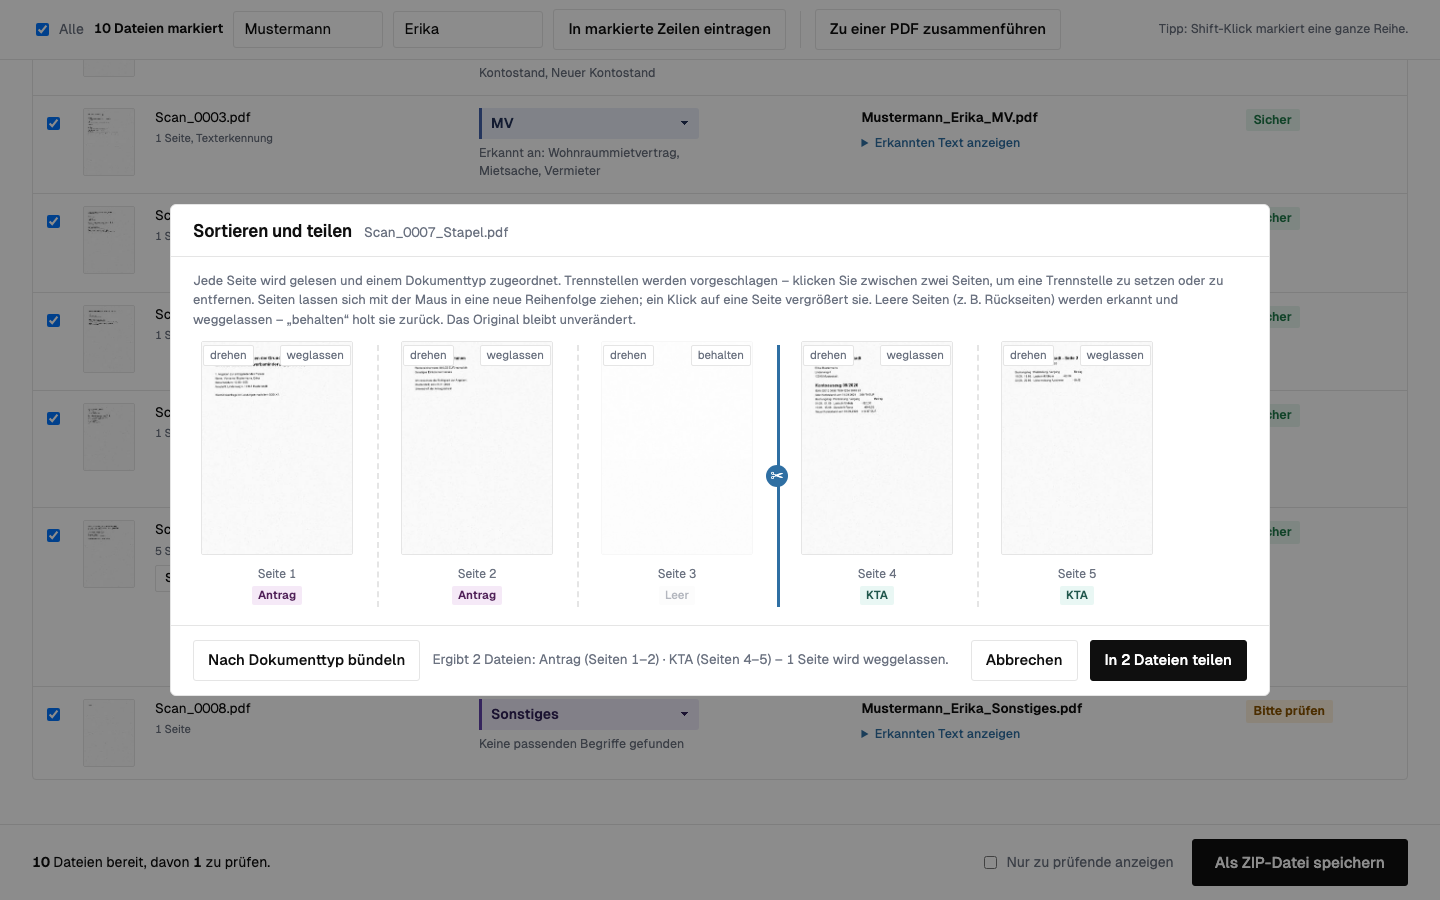
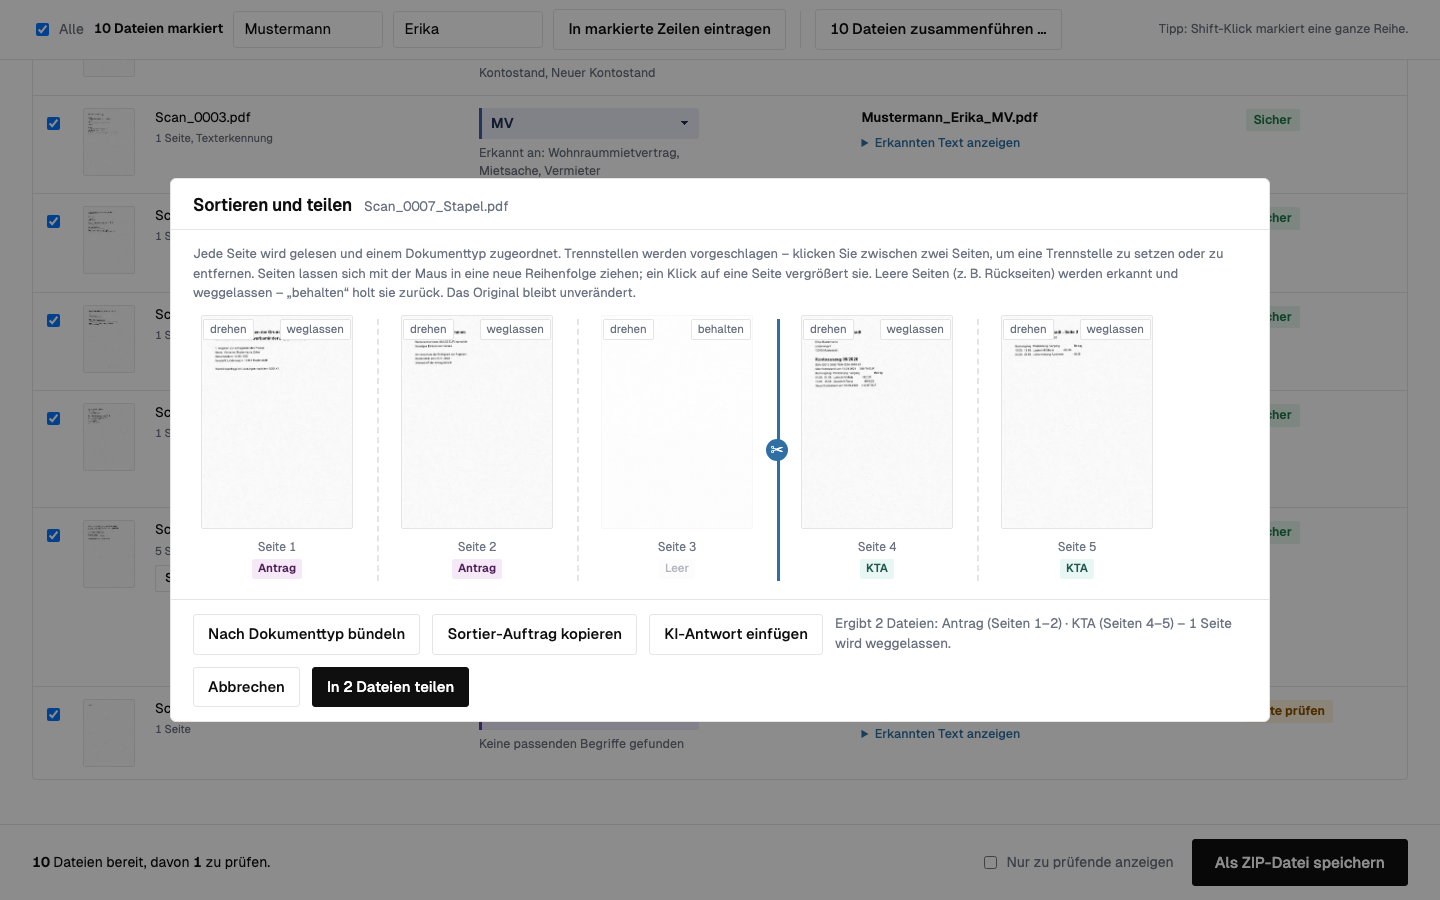
Zusammenführen-Dialog und Sortieren per KI-Assistent (v1.6.0)
Zusammenführen nutzerfreundlich: Der Knopf zählt mit („3 Dateien
zusammenführen …") und öffnet statt confirm() ein Fenster in der
Bediensprache des Teilen-Dialogs – Karten in Verbindungs-Reihenfolge
(per Maus umsortierbar), „weglassen" je Karte (unter 2 gesperrt),
Namensfeld mit Vorschlag nach dem Dateinamen-Muster (abweichende
Eingabe wird als fester Name übernommen, item.fixedName) und
Mischtyp-Hinweis. Erst „Zusammenführen" erstellt die PDF.

Sortieren mit dem KI-Assistenten, offline-konform über die
Zwischenablage: „Sortier-Auftrag kopieren" legt einen festen Auftrag
(regeln.js, sortierauftrag) samt nummerierter Seitentexte ab; die
Antwort im Format „Reihenfolge: 2, 1, 3" übernimmt „KI-Antwort
einfügen" in die Seitenvorschau – prüfbar vor dem Teilen. Damit sind
z. B. durcheinander gescannte Kontoauszüge automatisch sortierbar.

209 Prüfungen, alle grün.

diff --git a/Unterlagen-Sortierer/Unterlagen-Sortierer.html b/Unterlagen-Sortierer/Unterlagen-Sortierer.html
@@ -439,12 +439,37 @@ dialog.split::backdrop { background: rgba(0, 0, 0, .45); }
   <div class="dlgfoot">
     <button class="btn" id="bundle" disabled
       title="Alle Seiten gleichen Dokumenttyps zusammenschieben und je Typ eine Trennstelle setzen – vor dem Teilen prüfbar und änderbar">Nach Dokumenttyp bündeln</button>
+    <button class="btn" id="sortcopy" disabled
+      title="Sortier-Auftrag samt Seitentexten in die Zwischenablage kopieren – zum Einfügen in den DSGVO-konformen KI-Assistenten">Sortier-Auftrag kopieren</button>
+    <button class="btn" id="sortpaste" disabled
+      title="Die Antwort des KI-Assistenten (Reihenfolge: 2, 1, 3 …) einfügen – die Seiten werden entsprechend umsortiert, prüfbar vor dem Teilen">KI-Antwort einfügen</button>
     <div class="dlginfo" id="splitinfo"></div>
     <button class="btn" id="splitcancel">Abbrechen</button>
     <button class="btn primary" id="splitok" disabled>Teilen</button>
   </div>
   <!-- Liegt IM Dialog, damit die Vergrößerung über dem modalen Dialog (Top-Layer) erscheint -->
   <div class="zoom hidden" id="zoom"><img id="zoomimg" alt="Vergrößerte Seitenansicht"></div>
+</dialog>
+
+<dialog class="split" id="mergedlg" aria-label="Dateien zusammenführen">
+  <div class="dlghead"><h2>Zu einer PDF zusammenführen</h2></div>
+  <div class="dlgbody">
+    <p class="hint">Die markierten Dateien werden in dieser Reihenfolge zu EINER PDF-Datei verbunden.
+      Karten lassen sich mit der Maus umsortieren, „weglassen“ nimmt eine Datei heraus.
+      Die Originale bleiben unverändert und werden nur abgewählt.</p>
+    <div class="pages" id="mergecards"></div>
+    <div class="field" style="margin-top:14px; align-items:center">
+      <span class="label" style="margin:0 4px 0 0">Neuer Dateiname</span>
+      <input type="text" id="mergename" spellcheck="false" aria-label="Dateiname der neuen PDF" style="flex:1 1 280px">
+      <span class="hint" style="margin:0">.pdf</span>
+    </div>
+    <p class="why warn hidden" id="mergewarn" style="max-width:none">Die Dateien haben verschiedene Dokumenttypen – bitte den Typ der neuen Zeile danach prüfen.</p>
+  </div>
+  <div class="dlgfoot">
+    <div class="dlginfo" id="mergeinfo"></div>
+    <button class="btn" id="mergecancel">Abbrechen</button>
+    <button class="btn primary" id="mergeok">Zusammenführen</button>
+  </div>
 </dialog>
 
 <div class="pv hidden" id="preview">
@@ -800,6 +825,8 @@ function findDate(text) {
 function clean(v) { return String(v || "").trim().replace(/[<>:"/\\|?*\x00-\x1F]/g, "").replace(/\s+/g, "-"); }
 function buildName(item) {
   const ext = "." + item.name.split(".").pop().toLowerCase();
+  // Im Zusammenführen-Dialog von Hand vergebener Name: gilt fest, Muster greift nicht
+  if (item.fixedName) return (String(item.fixedName).replace(/[<>:"/\\|?*\x00-\x1F]/g, "").trim().slice(0, 150) || "Dokument") + ext;
   const orig = item.name.replace(/\.[^.]+$/, "");
   let s = setting("muster")
     .replace(/\{Nachname\}/gi, clean(item.nachname) || "Unbekannt")
@@ -1237,6 +1264,25 @@ function bundleByType() {
   renderSplitPages();
   updateSplitInfo();
 }
+/* Sortieren mit dem KI-Assistenten (offline-konform über die Zwischenablage):
+   "Sortier-Auftrag kopieren" legt Auftrag + nummerierte Seitentexte in die Zwischenablage;
+   die Antwort im festen Format "Reihenfolge: 2, 1, 3" übernimmt "KI-Antwort einfügen". */
+function copySortAuftrag(btn) {
+  const teile = split.order.map((o, i) => `=== Seite ${i + 1} ===\n${(split.pages[o].text || "").trim() || "(leere Seite)"}`);
+  copyText(R.sortierauftrag + "\n\n" + teile.join("\n\n"), btn);
+}
+function pasteSortAntwort() {
+  const raw = prompt("Antwort des KI-Assistenten hier einfügen (Format: Reihenfolge: 2, 1, 3):") || "";
+  const zahlen = raw.match(/\d+/g);
+  if (!zahlen) { setStatus("In der eingefügten Antwort wurde keine Reihenfolge gefunden.", undefined, true); return; }
+  const n = split.order.length, neu = [];
+  for (const z of zahlen.map(Number)) if (z >= 1 && z <= n && !neu.includes(z - 1)) neu.push(z - 1);
+  for (let i = 0; i < n; i++) if (!neu.includes(i)) neu.push(i);   // nicht genannte Seiten hinten anhängen
+  split.order = neu.map((disp) => split.order[disp]);              // Zahlen = Nummern aus dem kopierten Auftrag
+  split.cuts.clear(); split.auto = true;
+  renderSplitPages(); proposeCuts(); updateSplitInfo();
+  setStatus("Die Seiten wurden nach der eingefügten Reihenfolge sortiert – bitte das Ergebnis prüfen.");
+}
 /* Seite per Drag & Drop an eine neue Position ziehen: Trennvorschlag wird neu berechnet */
 function movePage(from, to) {
   const [x] = split.order.splice(from, 1);
@@ -1323,6 +1369,7 @@ function updateSplitInfo() {
     : segs.length === 1 && dropped ? "Ohne weggelassene Seiten speichern" : "Teilen";
   $("#splitok").disabled = split.running || !segs.length || (segs.length < 2 && !dropped && !orderChanged);
   $("#bundle").disabled = split.running;
+  $("#sortcopy").disabled = split.running; $("#sortpaste").disabled = split.running;
 }
 async function doSplit() {
   const segs = splitSegments();
@@ -1371,10 +1418,64 @@ async function doSplit() {
 }
 function closeSplit() { split.abort = true; try { $("#splitdlg").close(); } catch {} }
 
-async function mergeSelected() {
+/* ---------- Zusammenführen-Dialog: erst sehen und ändern, dann machen ---------- */
+const merge = { items: [], order: [], drop: new Set(), drag: undefined, touched: false };
+function mergeKept() { return merge.order.filter((o) => !merge.drop.has(o)).map((o) => merge.items[o]); }
+function mergeTypes(kept) { return new Set(kept.filter((k) => k.manual.type || k.typeSure).map((k) => k.type)); }
+// Namensvorschlag nach dem Dateinamen-Muster (Typ = gemeinsamer sicherer Typ, sonst der der ersten Datei)
+function mergeVorschlag(kept) {
+  if (!kept.length) return "";
+  const first = kept[0], types = mergeTypes(kept);
+  const typ = types.size === 1 ? [...types][0] : (first.type || UNKNOWN);
+  return buildName({ name: "x.pdf", nachname: first.nachname, vorname: first.vorname, type: typ, datum: first.datum }).replace(/\.pdf$/i, "");
+}
+function openMerge() {
   const sel = state.items.filter((i) => i.selected && i.status === "done");
   if (sel.length < 2 || state.busy) return;
-  if (!confirm(`${sel.length} markierte Dateien werden in der Reihenfolge der Liste zu einer PDF-Datei zusammengeführt. Die Originale bleiben unverändert. Fortfahren?`)) return;
+  merge.items = sel; merge.order = sel.map((_, i) => i); merge.drop = new Set(); merge.drag = undefined; merge.touched = false;
+  renderMergeCards(); updateMergeInfo();
+  $("#mergedlg").showModal();
+}
+function renderMergeCards() {
+  const wrap = $("#mergecards"); wrap.innerHTML = "";
+  merge.order.forEach((orig, disp) => {
+    const it = merge.items[orig];
+    const card = document.createElement("div"); card.className = "page"; card.draggable = true;
+    card.title = "Mit der Maus in eine neue Reihenfolge ziehen";
+    card.classList.toggle("drop", merge.drop.has(orig));
+    card.ondragstart = (e) => { merge.drag = disp; e.dataTransfer.effectAllowed = "move"; };
+    card.ondragover = (e) => { e.preventDefault(); e.dataTransfer.dropEffect = "move"; };
+    card.ondrop = (e) => {
+      e.preventDefault();
+      if (merge.drag !== undefined && merge.drag !== disp) { const [x] = merge.order.splice(merge.drag, 1); merge.order.splice(disp, 0, x); renderMergeCards(); updateMergeInfo(); }
+      merge.drag = undefined;
+    };
+    const img = document.createElement("img"); img.src = it.thumb || ""; img.alt = "";
+    const no = document.createElement("span"); no.className = "pno"; no.textContent = (it.originalName || it.name) + (it.pages > 1 ? ` – ${it.pages} Seiten` : "");
+    const ty = document.createElement("span"); ty.className = "ptype"; ty.textContent = it.type || "?"; ty.style.setProperty("--h", hue(it.type || "?"));
+    const skip = document.createElement("button"); skip.type = "button"; skip.className = "skippage"; skip.textContent = merge.drop.has(orig) ? "dazunehmen" : "weglassen";
+    skip.title = "Diese Datei beim Zusammenführen weglassen";
+    skip.onclick = () => { if (merge.drop.has(orig)) merge.drop.delete(orig); else merge.drop.add(orig); renderMergeCards(); updateMergeInfo(); };
+    card.append(img, no, ty, skip);
+    wrap.appendChild(card);
+  });
+}
+function updateMergeInfo() {
+  const kept = mergeKept();
+  const seiten = kept.reduce((s, k) => s + (k.pages || 1), 0);
+  $("#mergeinfo").textContent = kept.length < 2
+    ? "Bitte mindestens zwei Dateien dazunehmen."
+    : `Ergibt EINE PDF-Datei mit ${seiten} Seiten aus ${kept.length} Dateien.`;
+  $("#mergewarn").classList.toggle("hidden", mergeTypes(kept).size <= 1);
+  if (!merge.touched) $("#mergename").value = mergeVorschlag(kept);
+  $("#mergeok").disabled = kept.length < 2 || state.busy;
+}
+async function doMerge() {
+  const sel = mergeKept();
+  if (sel.length < 2 || state.busy) return;
+  const vorschlag = mergeVorschlag(sel);
+  const eingabe = $("#mergename").value.trim();
+  $("#mergedlg").close();
   state.busy = true; updateActions(); setStatus("Die Dateien werden zusammengeführt …");
   try {
     const out = await PDFLib.PDFDocument.create();
@@ -1403,13 +1504,14 @@ async function mergeSelected() {
     }
     const data = await out.save();
     const ni = newItem({
-      name: uniqueListName(names[0].replace(/\.[^.]+$/, "") + "_gesamt.pdf"), data, size: data.length,
+      name: uniqueListName((eingabe || vorschlag || names[0].replace(/\.[^.]+$/, "") + "_gesamt") + ".pdf"), data, size: data.length,
       pages: pagesN, thumb: sel[0].thumb, thumbRot: 0, text,
       pageTexts: allRead ? pageTexts : [], pagesRead: allRead ? pageTexts.length : 0,
       pageRot: Array(pagesN).fill(0),                 // Drehungen stecken schon in der Datei
       ocr: anyOcr,
       partInfo: "Zusammengeführt aus " + names.map((n) => `„${n}“`).join(", "),
     });
+    if (eingabe && eingabe !== vorschlag) ni.fixedName = eingabe;   // von Hand vergebener Name gilt fest
     analyse(ni);
     // Hatten die Quellen verschiedene erkannte Typen, wird der Typ NICHT stillschweigend
     // von einer Datei übernommen, sondern zur Prüfung gelb markiert.
@@ -1669,6 +1771,7 @@ function updateActions() {
   $("#apply").disabled = state.busy || sel.length === 0;
   $("#vApply").disabled = state.busy || !$("#vNach").value.trim() || !sel.length;
   $("#merge").disabled = state.busy || sel.length < 2 || !window.PDFLib;
+  $("#merge").textContent = sel.length >= 2 ? `${sel.length} Dateien zusammenführen …` : "Zusammenführen …";
   $("#tbinfo").textContent = `${sel.length} ${sel.length === 1 ? "Datei" : "Dateien"} markiert`;
   const wählbar = state.items.filter((i) => i.status === "done");
   for (const cb of [$("#all"), $("#tball")]) {
@@ -1961,9 +2064,14 @@ function init() {
   $("#apply").onclick = apply;
   $("#onlycheck").onchange = () => state.items.forEach(applyRowFilter);
   initDrop();
-  $("#merge").onclick = mergeSelected;
+  $("#merge").onclick = openMerge;
+  $("#mergeok").onclick = doMerge;
+  $("#mergecancel").onclick = () => $("#mergedlg").close();
+  $("#mergename").oninput = () => { merge.touched = true; };
   $("#splitok").onclick = doSplit;
   $("#bundle").onclick = bundleByType;
+  if (R.sortierauftrag) { $("#sortcopy").onclick = () => copySortAuftrag($("#sortcopy")); $("#sortpaste").onclick = pasteSortAntwort; }
+  else { $("#sortcopy").classList.add("hidden"); $("#sortpaste").classList.add("hidden"); }
   $("#splitcancel").onclick = closeSplit;
   $("#splitdlg").addEventListener("cancel", (e) => {
     // Esc schließt zuerst nur die Vergrößerung, erst der zweite Esc den Dialog

diff --git a/Unterlagen-Sortierer/programm/regeln.js b/Unterlagen-Sortierer/programm/regeln.js
@@ -32,6 +32,11 @@ window.REGELN = {
   // (zum Einfügen in den DSGVO-konformen KI-Assistenten). Leer lassen = Knopf ausblenden.
   pruefauftrag: "Bitte prüfe das folgende Verwaltungsdokument: Um welchen Dokumenttyp handelt es sich? Fehlen Angaben oder Unterschriften, gibt es unplausible oder widersprüchliche Angaben? Welche Rückfragen sollten gestellt werden? Antworte kurz in Stichpunkten.",
 
+  // Auftrag für "Sortier-Auftrag kopieren" im Teilen-Dialog: Der KI-Assistent bekommt die
+  // Seitentexte und antwortet in einem festen Format, das "KI-Antwort einfügen" versteht.
+  // Leer lassen = beide Knöpfe ausblenden.
+  sortierauftrag: "Du bekommst die erkannten Texte der Seiten eines eingescannten Dokuments, nummeriert in der aktuellen Reihenfolge (Seite 1 bis N). Bringe die Seiten in die fachlich richtige Reihenfolge – z. B. Kontoauszüge nach Auszugsnummer und Seitenzahl, Formulare nach aufgedruckter Seitennummer, Briefe nach Datum. Antworte mit GENAU EINER Zeile im Format\nReihenfolge: 2, 1, 3\nund sonst nichts – keine Erklärungen.",
+
   dokumenttypen: [
     // ---------- Anträge (Jobcenter / Sozialamt) ----------
     { name: "HA", info: "Hauptantrag (Jobcenter)",

diff --git a/Unterlagen-Sortierer/programm/version.js b/Unterlagen-Sortierer/programm/version.js
@@ -1,2 +1,2 @@
 // Wird von tools/release_bauen.sh aus der Datei VERSION erzeugt – nicht von Hand ändern.
-window.APP_VERSION = "1.5.1";
+window.APP_VERSION = "1.6.0";

diff --git a/tests/test_teilen.py b/tests/test_teilen.py
@@ -92,10 +92,21 @@ async def main():
         await pg.wait_for_function("state.items.length === 2 && !state.busy", timeout=240000)
         P.check("Werkzeugleiste zeigt Markierung", await pg.is_visible("#merge") and not await pg.evaluate("$('#merge').disabled")
                 and "2 Dateien markiert" in await pg.inner_text("#tbinfo"))
-        await pg.click("#merge")  # confirm() wird automatisch bestätigt
+        P.check("Knopf zählt mit", await pg.inner_text("#merge") == "2 Dateien zusammenführen …")
+        await pg.click("#merge")   # öffnet den Zusammenführen-Dialog
+        P.check("Dialog zeigt die Karten", await pg.evaluate("document.querySelector('#mergedlg').open && document.querySelectorAll('#mergecards .page').length === 2"))
+        P.check("Mischtyp-Hinweis im Dialog", not await pg.evaluate("document.querySelector('#mergewarn').classList.contains('hidden')"))
+        P.check("Namensvorschlag nach Muster", (await pg.evaluate("document.querySelector('#mergename').value")).startswith("Mustermann_Erika_"))
+        P.check("Ergibt-Zeile stimmt", "2 Seiten aus 2 Dateien" in await pg.inner_text("#mergeinfo"))
+        # Eine Karte weglassen → gesperrt; wieder dazunehmen → frei
+        await pg.click("#mergecards .page .skippage >> nth=0")
+        P.check("Unter 2 Dateien gesperrt", await pg.evaluate("$('#mergeok').disabled"))
+        await pg.click("#mergecards .page .skippage >> nth=0")
+        P.check("Wieder frei", not await pg.evaluate("$('#mergeok').disabled"))
+        await pg.click("#mergeok")
         await pg.wait_for_function("state.items.length === 3 && !state.busy", timeout=240000)
         m = await pg.evaluate("state.items.map(i => ({ n: i.name, pg: i.pages, d: !!i.derived, sel: i.selected, mi: i.mergedInto || '', sure: !!i.typeSure }))")
-        P.check("Neue Gesamt-PDF", m[2]['d'] and m[2]['pg'] == 2 and m[2]['n'].endswith("_gesamt.pdf"), m)
+        P.check("Neue Gesamt-PDF", m[2]['d'] and m[2]['pg'] == 2 and m[2]['n'].endswith(".pdf"), m)
         P.check("Originale abgewählt und gekennzeichnet", not m[0]['sel'] and not m[1]['sel'] and m[0]['mi'] == m[2]['n'] and m[1]['mi'] == m[2]['n'], m)
         P.check("Mischtypen → bitte prüfen", m[2]['sure'] is False, m[2])
         P.check("Zusammenführen danach gesperrt (nur 1 markiert)", await pg.evaluate("$('#merge').disabled"))
@@ -144,6 +155,22 @@ async def main():
         P.check("Bündeln: 2 Dateien, leere Seite weggelassen", await pg.inner_text("#splitok") == "In 2 Dateien teilen",
                 await pg.inner_text("#splitinfo"))
         P.check("Nach Bündeln weiter änderbar", await pg.evaluate("(() => { movePage(0, 1); return split.order.join(','); })()") == "0,1,3,4,2")
+        await pg.click("#splitcancel")
+
+        # I) Sortieren mit dem KI-Assistenten über die Zwischenablage
+        await pg.click("button.split")
+        await pg.wait_for_function("!split.running && split.pages.length === 5", timeout=240000)
+        await pg.evaluate("""window.__kopiert = ""; navigator.clipboard.writeText = async (t) => { window.__kopiert = t; };""")
+        await pg.click("#sortcopy")
+        await pg.wait_for_function("window.__kopiert.length > 0", timeout=10000)
+        P.check("Sortier-Auftrag mit Format und Seitentexten", await pg.evaluate(
+            "__kopiert.includes('Reihenfolge: 2, 1, 3') && __kopiert.includes('=== Seite 3 ===') && __kopiert.includes('Kontoauszug 09/2026')"))
+        await pg.evaluate("window.prompt = () => 'Reihenfolge: 3, 1, 2, 4, 5'")
+        await pg.click("#sortpaste")
+        await pg.wait_for_timeout(300)
+        P.check("KI-Antwort sortiert die Seiten um", await pg.evaluate("split.order.join(',')") == "2,0,1,3,4",
+                await pg.evaluate("split.order.join(',')"))
+        P.check("Status bestätigt das Sortieren", "bitte das Ergebnis prüfen" in await pg.inner_text("#status"))
         await pg.click("#splitcancel")
 
         P.check("Keine JS-Fehler", not errs, errs[:3])

diff --git a/tests/test_drehen.py b/tests/test_drehen.py
@@ -118,9 +118,10 @@ async def main():
           b.pagesRead = 0; b.pageTexts = [];   // Quelle gilt als nicht fertig gelesen
           b.pages = 2;
         })()""")
-        await pg.evaluate("mergeSelected()")
-        await pg.wait_for_function("state.items.some(i => (i.name||'').includes('_gesamt'))", timeout=240000)
-        g = await pg.evaluate("(() => { const i = state.items.find(x => x.name.includes('_gesamt')); return { pt: (i.pageTexts||[]).length, pr: i.pagesRead }; })()")
+        await pg.evaluate("openMerge()")
+        await pg.evaluate("doMerge()")
+        await pg.wait_for_function("state.items.some(i => (i.partInfo||'').includes('Zusammengeführt aus'))", timeout=240000)
+        g = await pg.evaluate("(() => { const i = state.items.find(x => (x.partInfo||'').includes('Zusammengeführt aus')); return { pt: (i.pageTexts||[]).length, pr: i.pagesRead }; })()")
         P.check("Merge übernimmt keine verrutschten Seitentexte", g["pt"] == 0 and g["pr"] == 0, g)
 
         P.check("Keine JS-Fehler", not errs, errs[:3])

diff --git a/CLAUDE.md b/CLAUDE.md
@@ -121,6 +121,13 @@ VERSION            Versionsnummer für das Release-ZIP
   ANGEZEIGTEN Reihenfolge: neuer Abschnitt, sobald eine Seite *sicher* einen anderen Typ hat).
   Seiten sind per Drag & Drop umsortierbar (`split.order`, `movePage()` → Vorschlag wird neu
   berechnet); Trennstellen per Klick änderbar; leere Seiten (inkRatio) sind vorab „weglassen“.
+  „Nach Dokumenttyp bündeln“ (`bundleByType`) gruppiert Seiten je Typ (leere ans Ende) und
+  setzt Trennstellen je Gruppe – nur die ANSICHT, vor dem Teilen weiter änderbar (Tims Regel).
+  KI-Sortieren über die Zwischenablage (offline bleibt offline): `copySortAuftrag()` kopiert
+  `R.sortierauftrag` + nummerierte Seitentexte; `pasteSortAntwort()` parst die Antwort
+  („Reihenfolge: 2, 1, 3“ – Zahlen beziehen sich auf die Nummern des kopierten Auftrags,
+  fehlende Seiten werden hinten angehängt) und sortiert `split.order` um; Knöpfe versteckt,
+  wenn `sortierauftrag` leer ist.
   `doSplit()` erzeugt per **pdf-lib** je Abschnitt eine neue PDF in Anzeige-Reihenfolge
   (`copyPages` mit beliebiger Index-Folge); 1 Abschnitt + umsortiert/bereinigt → „Sortiert
   speichern“/eine Datei (`_sortiert`/`_bereinigt`). Original bleibt unverändert, wird abgewählt.
@@ -137,13 +144,17 @@ VERSION            Versionsnummer für das Release-ZIP
   `fullText(it)` = alle Seiten. `it.bgLock` verhindert, dass backgroundScan und copyAll dieselben
   Seiten doppelt lesen. Zweck: kompletten Text in den DSGVO-konformen KI-Assistenten der Kunden
   kopieren. Kopier-Knöpfe in der Vorschau und an „Erkannten Text anzeigen“ je Zeile.
-- **Zusammenführen:** Knopf „Zu einer PDF zusammenführen“ sitzt in der WERKZEUGLEISTE
+- **Zusammenführen:** Knopf (zählt mit: „N Dateien zusammenführen …“) sitzt in der WERKZEUGLEISTE
   (`#toolbar`, `position: sticky` – klebt beim Scrollen oben; enthält außerdem „Alle“-Haken
   `#tball`, Markier-Zähler `#tbinfo` und das Namensfeld samt `#vApply`; gesperrt statt versteckt,
   wenn < 2 markiert). Unten rechts bleibt NUR der Speichern-Knopf (Tims UX-Regel). Ebenso Tims
   Struktur-Regel (v1.4.0): Kopfzeile und Einmal-Einstellungen (Ordner, Eingang, Muster) scrollen
   weg, NUR die Werkzeugleiste pinnt; Datenschutz-Satz als Schild „100 % lokal“ mit title-Tooltip.
-  `mergeSelected()`: Baut per pdf-lib eine PDF aus allen markierten Dateien in Listenreihenfolge; JPG/PNG
+  Der Klick öffnet den ZUSAMMENFÜHREN-DIALOG `#mergedlg` (openMerge/renderMergeCards/
+  updateMergeInfo/doMerge – KEIN confirm() mehr): Karten in Verbindungs-Reihenfolge (Drag &
+  Drop), „weglassen“ je Karte (unter 2 → gesperrt), Namensfeld mit Vorschlag nach Muster
+  (`mergeVorschlag`; abweichende Eingabe → `item.fixedName`, das buildName() fest übernimmt),
+  Mischtyp-Hinweis `#mergewarn`. Erst „Zusammenführen“ baut die PDF. doMerge(): Baut per pdf-lib eine PDF aus allen markierten Dateien in Listenreihenfolge; JPG/PNG
   werden als Seiten eingebettet (`embedJpg`/`embedPng`). Quellen bleiben in der Liste, werden abgewählt
   und zeigen `mergedInto` („Zusammengeführt in …“). Hatten die Quellen verschiedene SICHERE Typen, wird
   das Ergebnis `typeSure=false` (gelb) statt still nach einer Datei benannt. „Verwerfen“ entfernt eine
@@ -255,6 +266,7 @@ für alle Kunden gleich. Kundenspezifische Dateien nicht in dieses Repo eincheck
       BB, HG, SE, SV, UF, VE, Nwdigital, Mantelbogen, Profilbogen (aktuell Platzhalter-Regeln
       „Anlage XX“ bzw. Wortsuche); Eintrag „Brief“ ist bewusst nicht als Typ angelegt (nicht
       erkennbar – bleibt Sonstiges)
-- [ ] Automatisches Seiten-Ordnen (unsortierter Kontoauszug/WBA): bewusst zurückgestellt –
-      mit Tim einen Plan machen, wie das mit dem Business-GPT des Kunden umsetzbar wäre
-      (einfache Fälle wie „Seite 2 von 5“ gingen auch regelbasiert)
+- [x] Automatisches Seiten-Ordnen: gelöst in 1.6.0 über den KI-Assistenten-Weg
+      („Sortier-Auftrag kopieren“ / „KI-Antwort einfügen“ im Teilen-Dialog, Zwischenablage,
+      offline-konform). Regelbasierte Erkennung („Seite 2 von 5“) bleibt eine mögliche
+      spätere Ergänzung

diff --git a/CHANGELOG.md b/CHANGELOG.md
@@ -2,6 +2,23 @@
 
 Alle nennenswerten Änderungen am Unterlagen-Sortierer werden hier festgehalten.
 
+## 1.6.0 – 2026-11-16
+
+- **Zusammenführen mit Vorschau-Fenster:** Der Knopf zählt mit („3 Dateien
+  zusammenführen …“) und öffnet statt der nackten Browser-Rückfrage ein
+  Fenster in der Bediensprache des Teilen-Dialogs: die Dateien als Karten
+  in Verbindungs-Reihenfolge (per Maus umsortierbar), „weglassen“ je
+  Karte, ein anpassbares Namensfeld mit Vorschlag nach dem
+  Dateinamen-Muster und ein Hinweis bei gemischten Dokumenttypen. Erst
+  „Zusammenführen“ im Fenster erstellt die PDF.
+- **Sortieren mit dem KI-Assistenten (offline-konform):** Im Teilen-Dialog
+  kopiert „Sortier-Auftrag kopieren“ einen festen Auftrag samt der
+  erkannten Seitentexte; die Antwort des DSGVO-konformen KI-Assistenten
+  (immer im Format „Reihenfolge: 2, 1, 3“) übernimmt „KI-Antwort
+  einfügen“ – die Seiten sortieren sich entsprechend, prüfbar vor dem
+  Teilen. So lassen sich z. B. durcheinander gescannte Kontoauszüge
+  automatisch ordnen. Auftragstext in `regeln.js` anpassbar.
+
 ## 1.5.1 – 2026-11-16
 
 - **Name nur noch oben – neuer Standard:** Der Fallname wird einmal in der
